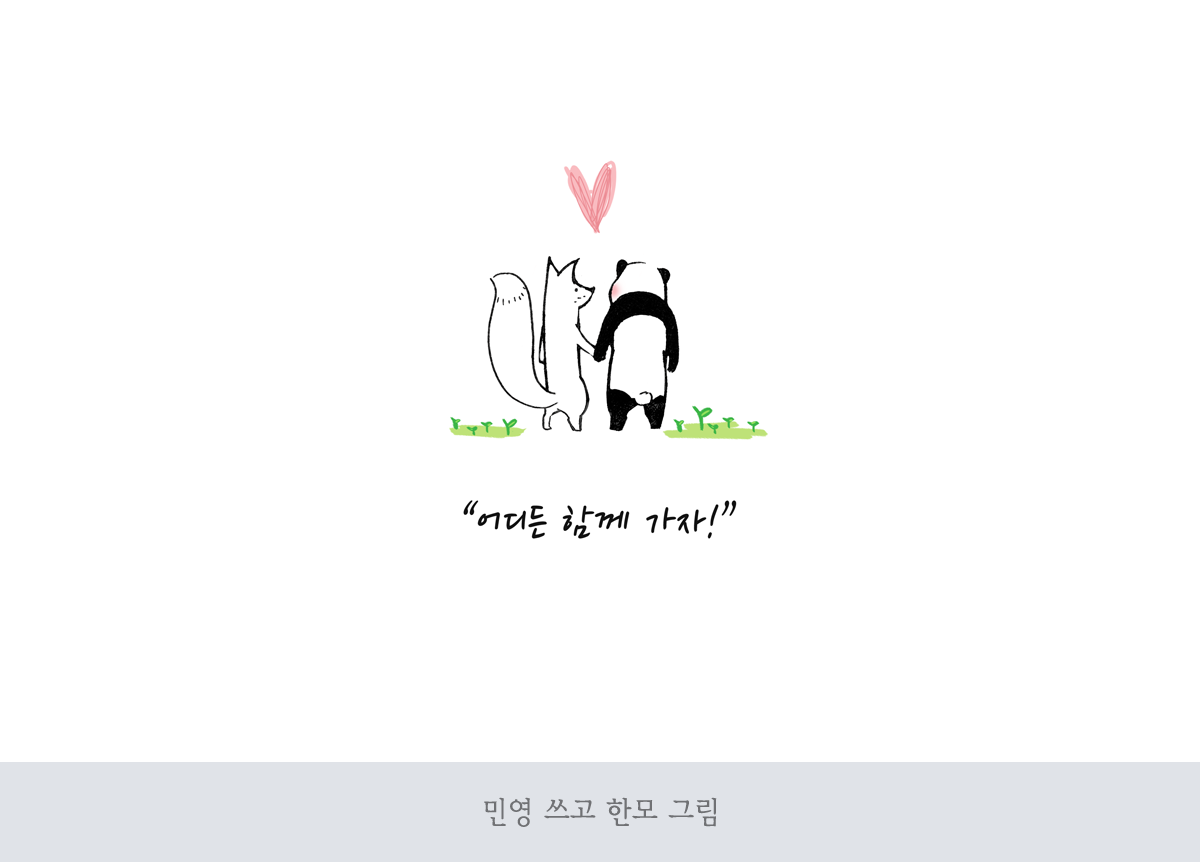
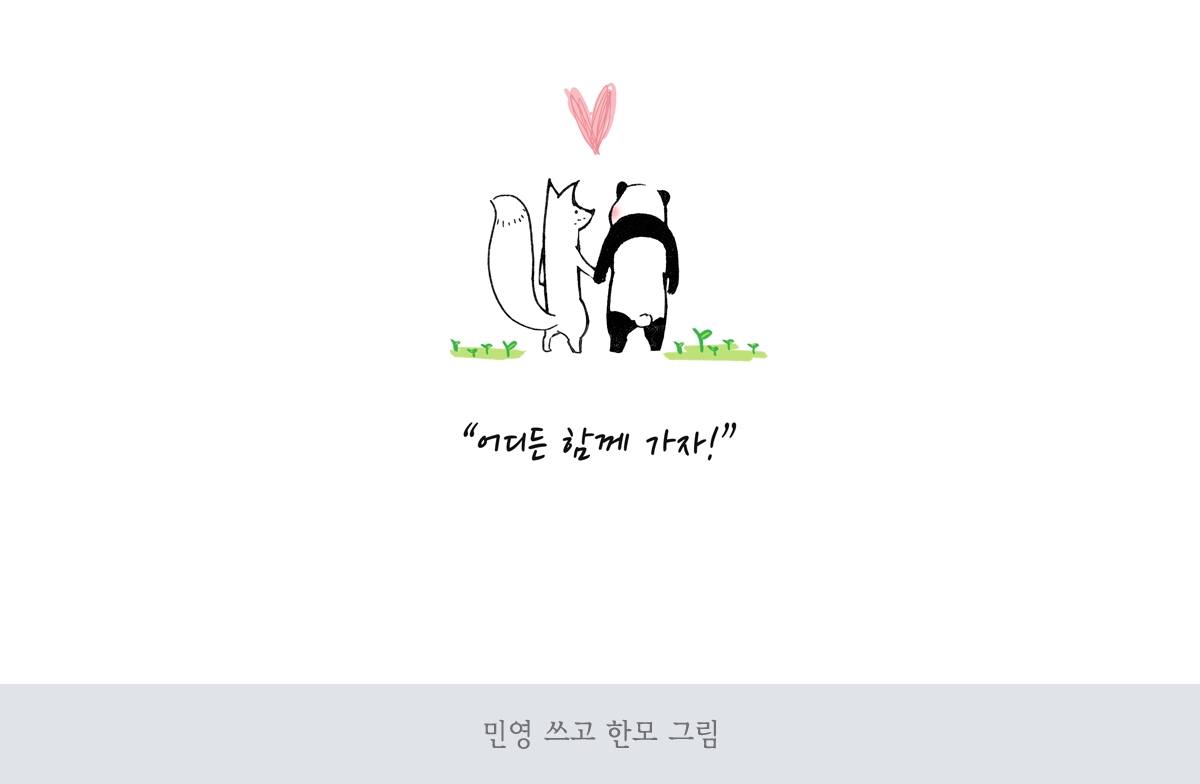
dsds

diff --git a/index.html b/index.html
@@ -3,7 +3,7 @@
 <head>
 	<title>MonMiyo | Antifreeze</title>
 	<meta charset="utf-8">
-	<meta name="viewport" content="width=device-width, initial-scale=1.0">
+	<meta name="viewport" content="width=device-width, initial-scale=1.0, minimum-scale=1, maximum-scale=1">
 	<meta name="description" content="">
 	<meta name="author" content="">
 	<script type="text/javascript" src="js/kakao.link.js"></script>
@@ -32,12 +32,12 @@
 			<img src="img/home.png" width="100%">
 		</div>
         <div>
- 			<img src="img/greeting.png" width="100%" style="margin-top:80px">
+ 			<img src="img/greeting.png" width="100%" style="margin-top:100px">
 			<img src="img/introduce.png" width="100%" style="margin-top:60px">
         </div>
         <div class="adress">
 			<img src="img/location.png" width="100%"style="margin-top:150px">
-			<img src="img/map.png" width="100%"style="margin-top:100px">
+			<img src="img/map.png" width="100%"style="margin-top:50px">
 			<div class="btn">
 				<a href="http://goo.gl/maps/OOtqn" class="myButton">구글 지도로 확인하기</a>
 				<br><br>
